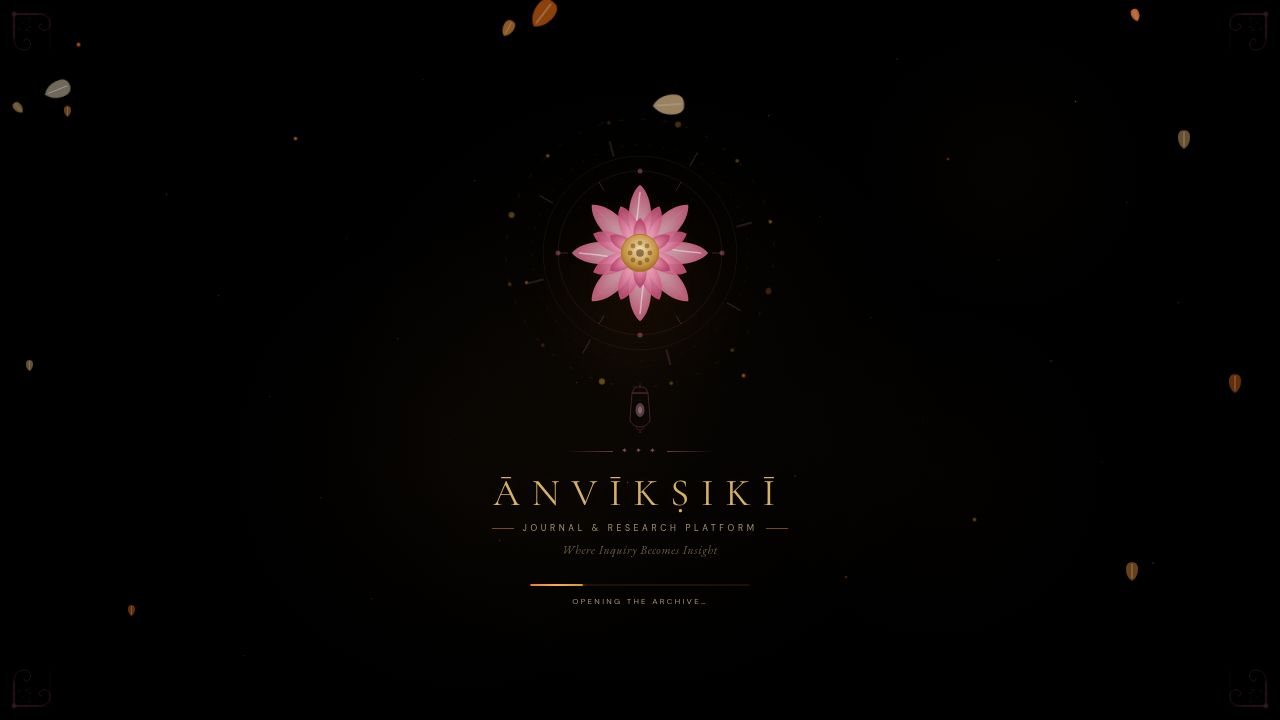
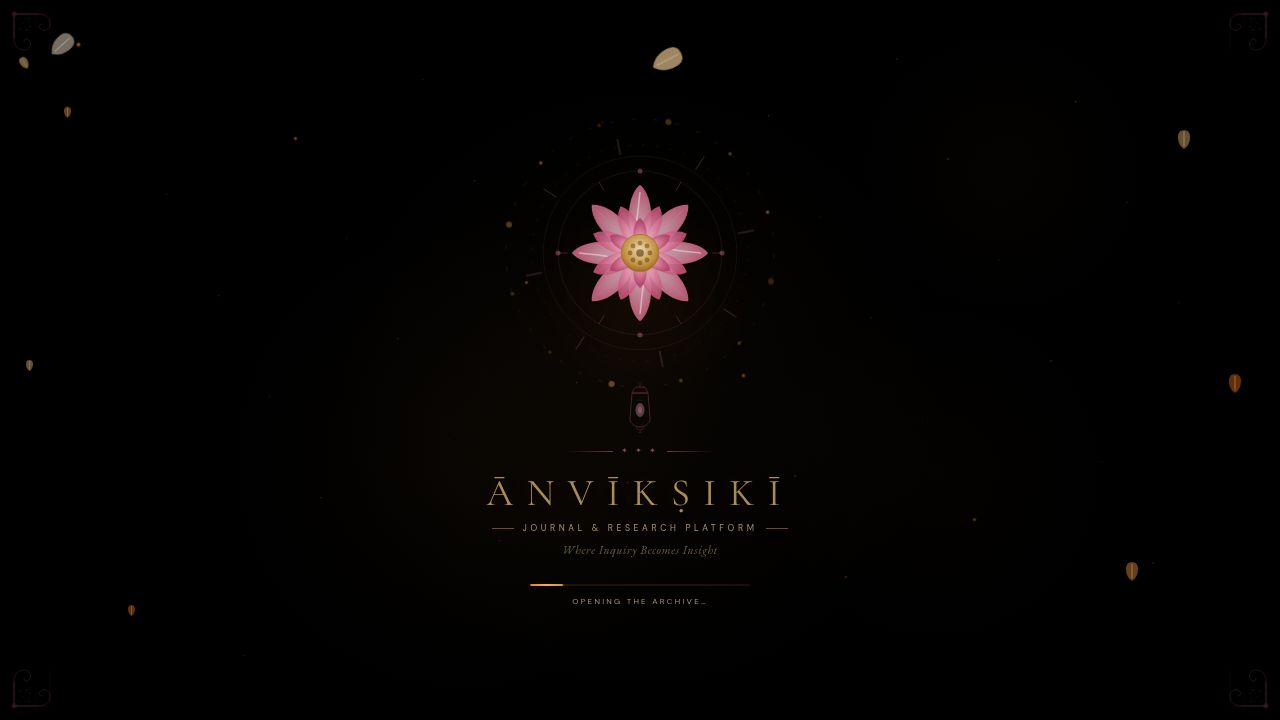
Homepage design cleanup + submit/upload e2e verification
- Removed the colorful rainbow gradient strip from the site header (SacredHeader.tsx, .sacred-rainbow-strip in index.css)
- Removed flower/petal ambient animation (AmbientSakura) and gemstone row (GemstoneRow) from the "Browse by Domain" section on the homepage
- Recolored all 14 HOME_DOMAINS entries in page.tsx to a single monochrome silver (#B8B8C2) instead of per-domain vivid colors, which fixes both the hero chip colors and the domain card colors/icons (both driven by the same array)
- Fixed the "Browse by Domain" grid CSS to be symmetric: changed from repeat(4)/repeat(3)/repeat(2) breakpoints (uneven for 14 items) to repeat(7) desktop / repeat(2) mobile, both of which divide evenly into 14 items
- Cleaned up now-unused .home-v3-ambient-sakura/.home-v3-ambient-petal CSS (the sakuraFall keyframe itself is still used elsewhere in the app, so it was kept)

Tested end-to-end via automated browser test:
- Verified visually (screenshots) that the rainbow header strip is gone and domain chips/cards are silver/monochrome with no flower or gemstone decorations, and the grid renders in a balanced layout
[…]

diff --git a/artifacts/anvikshiki/src/app/page.tsx b/artifacts/anvikshiki/src/app/page.tsx
@@ -4,7 +4,7 @@ import { ArrowRight, BookOpen, Clock3, Compass, Feather, Globe, Layers, Send, Us
 import { AnimalGlyph } from "@/components/manuscript/AnimalGlyph";
 import { OrnamentDivider } from "@/components/manuscript/OrnamentDivider";
 import { FloralBorder } from "@/components/sacred/FloralDecor";
-import { ColorMandala, GemstoneRow, PrismaticBurst, RainbowDivider, YantraPattern } from "@/components/sacred/ColorfulDecor";
+import { PrismaticBurst, YantraPattern } from "@/components/sacred/ColorfulDecor";
 
 const base = import.meta.env.BASE_URL.replace(/\/$/, "");
 const asset = (p: string) => `${base}${p.startsWith("/") ? p : `/${p}`}`;
@@ -29,142 +29,24 @@ function SectionMandala({ size = 52, color = "currentColor" }: { size?: number; 
   );
 }
 
-/* ── VIVID ambient sakura — full spectrum petals ── */
-const AMBIENT_PETALS = Array.from({ length: 22 }, (_, i) => ({
-  left: `${4 + (i * 29 + 11) % 92}%`,
-  size: 7 + (i % 5) * 2.2,
-  color: [
-    "#E11D48","#F97316","#EAB308","#22C55E","#06B6D4","#3B82F6",
-    "#7C3AED","#EC4899","#F43F5E","#D97706","#059669","#0EA5E9",
-  ][i % 12],
-  opacity: 0.26 + (i % 4) * 0.06,
-  delay: `${(i * 0.55) % 9}s`,
-  dur: `${8 + (i % 6) * 1.3}s`,
-  drift: `${((i % 7) - 3) * 34}px`,
-  spin: `${((i % 2) === 0 ? -1 : 1) * (170 + (i % 5) * 45)}deg`,
-}));
+/* ── Silver, monochrome domain styling — no per-domain color ── */
+const DOMAIN_SILVER = "#B8B8C2";
 
-/* ── Flower shape helpers ── */
-function FullFlower({ color, shape }: { color: string; shape: number }) {
-  if (shape === 0) {
-    /* 5-petal round flower */
-    return (
-      <>
-        {[0, 72, 144, 216, 288].map((a) => {
-          const rad = (a * Math.PI) / 180;
-          const cx = 12 + 7 * Math.cos(rad);
-          const cy = 12 + 7 * Math.sin(rad);
-          return <ellipse key={a} cx={cx} cy={cy} rx="5.5" ry="3.5" fill={color} transform={`rotate(${a} ${cx} ${cy})`} opacity=".92" />;
-        })}
-        <circle cx="12" cy="12" r="4" fill="rgba(255,255,200,0.9)" />
-        <circle cx="12" cy="12" r="2" fill={color} opacity=".5" />
-      </>
-    );
-  }
-  if (shape === 1) {
-    /* 6-petal lotus-style flower */
-    return (
-      <>
-        {[0, 60, 120, 180, 240, 300].map((a) => (
-          <path
-            key={a}
-            d="M12,12 C10,8 9,4 12,2 C15,4 14,8 12,12Z"
-            fill={color}
-            transform={`rotate(${a} 12 12)`}
-            opacity=".88"
-          />
-        ))}
-        {/* Inner petals */}
-        {[30, 90, 150, 210, 270, 330].map((a) => (
-          <path
-            key={a}
-            d="M12,12 C11,9.5 10.5,7 12,5.5 C13.5,7 13,9.5 12,12Z"
-            fill={color}
-            transform={`rotate(${a} 12 12)`}
-            opacity=".55"
-          />
-        ))}
-        <circle cx="12" cy="12" r="3" fill="rgba(255,240,200,0.9)" />
-      </>
-    );
-  }
-  if (shape === 2) {
-    /* 8-petal marigold */
-    return (
-      <>
-        {[0, 45, 90, 135, 180, 225, 270, 315].map((a) => {
-          const rad = (a * Math.PI) / 180;
-          const cx = 12 + 6 * Math.cos(rad);
-          const cy = 12 + 6 * Math.sin(rad);
-          return <ellipse key={a} cx={cx} cy={cy} rx="4" ry="2.8" fill={color} transform={`rotate(${a} ${cx} ${cy})`} opacity=".9" />;
-        })}
-        <circle cx="12" cy="12" r="3.5" fill="rgba(255,220,100,0.95)" />
-        <circle cx="12" cy="12" r="1.5" fill={color} opacity=".6" />
-      </>
-    );
-  }
-  /* shape 3 — rose-style cupped flower */
-  return (
-    <>
-      <path d="M12,4 C8,5 5,8 5,12 C5,16.5 8.3,19.5 12,20 C15.7,19.5 19,16.5 19,12 C19,8 16,5 12,4Z" fill={color} opacity=".35" />
-      <path d="M12,6 C9,7 7,9.5 7,12 C7,15.2 9.3,17.5 12,18 C14.7,17.5 17,15.2 17,12 C17,9.5 15,7 12,6Z" fill={color} opacity=".6" />
-      <path d="M12,9 C10.5,9.5 9.5,10.8 9.5,12 C9.5,13.8 10.7,15 12,15 C13.3,15 14.5,13.8 14.5,12 C14.5,10.8 13.5,9.5 12,9Z" fill={color} opacity=".85" />
-      <circle cx="12" cy="12" r="2" fill="rgba(255,240,220,0.9)" />
-    </>
-  );
-}
-
-const FLOWER_COLORS = [
-  "#E8426A",   /* rose red */
-  "#F97316",   /* marigold orange */
-  "#EC4899",   /* lotus pink */
-  "#A855F7",   /* violet */
-  "#FBBF24",   /* saffron yellow */
-  "#34D399",   /* sage green */
-  "#60A5FA",   /* cornflower */
-  "#F472B6",   /* petal pink */
-  "#FB923C",   /* deep marigold */
-  "#C084FC",   /* lavender */
-];
-
-function AmbientSakura() {
-  return (
-    <div className="home-v3-ambient-sakura" aria-hidden="true">
-      {AMBIENT_PETALS.map((p, i) => {
-        const color = FLOWER_COLORS[i % FLOWER_COLORS.length];
-        const flowerShape = i % 4;
-        const sz = p.size * 1.8;
-        return (
-          <svg key={i} width={sz} height={sz} viewBox="0 0 24 24"
-            className="home-v3-ambient-petal"
-            style={{ left: p.left, top: "-5%", opacity: p.opacity,
-              "--dur": p.dur, "--delay": p.delay,
-              "--petal-drift": p.drift, "--petal-spin": p.spin,
-            } as React.CSSProperties}>
-            <FullFlower color={color} shape={flowerShape} />
-          </svg>
-        );
-      })}
-    </div>
-  );
-}
-
-/* ── VIVID domain colors ── */
 const HOME_DOMAINS = [
-  { label: "Philosophy",             domain: "philosophy",             href: "/domains/philosophy",             color: "#7C3AED", emoji: "🔮", desc: "Reality, reasoning, self, knowledge, and truth." },
-  { label: "History",                domain: "history",                href: "/domains/history",                color: "#D97706", emoji: "📜", desc: "Civilizations, memory, events, eras, and inheritance." },
-  { label: "Psychology",             domain: "psychology",             href: "/domains/psychology",             color: "#E11D48", emoji: "🧠", desc: "Mind, behavior, consciousness, and inner landscapes." },
-  { label: "Sociology",              domain: "sociology",              href: "/domains/sociology",              color: "#059669", emoji: "🌿", desc: "Communities, institutions, cultures, and shared patterns." },
-  { label: "Science",                domain: "science",                href: "/domains/science",                color: "#0EA5E9", emoji: "🔭", desc: "Observation, logic, nature, systems, and discovery." },
-  { label: "Geopolitics",            domain: "geopolitics",            href: "/domains/geopolitics",            color: "#B91C1C", emoji: "🌐", desc: "Power, geography, statecraft, strategy, and place." },
-  { label: "Papers",                 domain: "papers",                 href: "/papers",                         color: "#B45309", emoji: "📋", desc: "Research manuscripts, working papers, and scholarship." },
-  { label: "Archive",                domain: "archive",                href: "/archive",                        color: "#71717A", emoji: "🗂️", desc: "Texts, records, timelines, sources, and living memory." },
-  { label: "Civilizational Thought", domain: "civilizational-thought", href: "/domains/civilizational-thought", color: "#16A34A", emoji: "🏛️", desc: "Long-arc inquiry into culture, tradition, and society." },
-  { label: "Aesthetics",             domain: "aesthetics",             href: "/domains/aesthetics",             color: "#9D174D", emoji: "🎨", desc: "Art, beauty, literature, music, symbol, and form." },
-  { label: "Sanskrit Studies",       domain: "sanskrit-studies",       href: "/domains/sanskrit-studies",       color: "#CA8A04", emoji: "🪔", desc: "Language, shastra, grammar, and textual traditions." },
-  { label: "Political Theory",       domain: "political-theory",       href: "/domains/political-theory",       color: "#DC2626", emoji: "⚖️", desc: "State, order, sovereignty, justice, and power." },
-  { label: "Translations",           domain: "translations",           href: "/domains/translations",           color: "#4338CA", emoji: "📖", desc: "Texts moving between languages, worlds, and eras." },
-  { label: "Multimedia",             domain: "multimedia",             href: "/domains/aesthetics",             color: "#1D4ED8", emoji: "🎬", desc: "Visual stories, lectures, audio, and interactive work." },
+  { label: "Philosophy",             domain: "philosophy",             href: "/domains/philosophy",             color: DOMAIN_SILVER, emoji: "🔮", desc: "Reality, reasoning, self, knowledge, and truth." },
+  { label: "History",                domain: "history",                href: "/domains/history",                color: DOMAIN_SILVER, emoji: "📜", desc: "Civilizations, memory, events, eras, and inheritance." },
+  { label: "Psychology",             domain: "psychology",             href: "/domains/psychology",             color: DOMAIN_SILVER, emoji: "🧠", desc: "Mind, behavior, consciousness, and inner landscapes." },
+  { label: "Sociology",              domain: "sociology",              href: "/domains/sociology",              color: DOMAIN_SILVER, emoji: "🌿", desc: "Communities, institutions, cultures, and shared patterns." },
+  { label: "Science",                domain: "science",                href: "/domains/science",                color: DOMAIN_SILVER, emoji: "🔭", desc: "Observation, logic, nature, systems, and discovery." },
+  { label: "Geopolitics",            domain: "geopolitics",            href: "/domains/geopolitics",            color: DOMAIN_SILVER, emoji: "🌐", desc: "Power, geography, statecraft, strategy, and place." },
+  { label: "Papers",                 domain: "papers",                 href: "/papers",                         color: DOMAIN_SILVER, emoji: "📋", desc: "Research manuscripts, working papers, and scholarship." },
+  { label: "Archive",                domain: "archive",                href: "/archive",                        color: DOMAIN_SILVER, emoji: "🗂️", desc: "Texts, records, timelines, sources, and living memory." },
+  { label: "Civilizational Thought", domain: "civilizational-thought", href: "/domains/civilizational-thought", color: DOMAIN_SILVER, emoji: "🏛️", desc: "Long-arc inquiry into culture, tradition, and society." },
+  { label: "Aesthetics",             domain: "aesthetics",             href: "/domains/aesthetics",             color: DOMAIN_SILVER, emoji: "🎨", desc: "Art, beauty, literature, music, symbol, and form." },
+  { label: "Sanskrit Studies",       domain: "sanskrit-studies",       href: "/domains/sanskrit-studies",       color: DOMAIN_SILVER, emoji: "🪔", desc: "Language, shastra, grammar, and textual traditions." },
+  { label: "Political Theory",       domain: "political-theory",       href: "/domains/political-theory",       color: DOMAIN_SILVER, emoji: "⚖️", desc: "State, order, sovereignty, justice, and power." },
+  { label: "Translations",           domain: "translations",           href: "/domains/translations",           color: DOMAIN_SILVER, emoji: "📖", desc: "Texts moving between languages, worlds, and eras." },
+  { label: "Multimedia",             domain: "multimedia",             href: "/domains/aesthetics",             color: DOMAIN_SILVER, emoji: "🎬", desc: "Visual stories, lectures, audio, and interactive work." },
 ];
 
 /* ── Stats ── */
@@ -319,7 +201,7 @@ export default function HomePage() {
               </Link>
             </div>
 
-            {/* Vivid colored domain chips */}
+            {/* Domain chips — silver, monochrome */}
             <div className="home-v3-chips">
               {HOME_DOMAINS.map(d => (
                 <Link key={d.label} href={d.href} className="home-v3-chip"
@@ -379,8 +261,6 @@ export default function HomePage() {
 
       {/* ─── BROWSE BY DOMAIN ─── */}
       <section className="home-v3-section home-v3-domains-section" style={{ position: "relative", overflow: "hidden" }}>
-        <AmbientSakura />
-
         {/* Background Yantra watermark */}
         <div className="home-domains-yantra" aria-hidden="true">
           <YantraPattern size={400} style={{ opacity: 0.04 }} />
@@ -391,8 +271,6 @@ export default function HomePage() {
             <SectionMandala size={48} />
             <h2 className="home-v3-section-title">Browse by Domain</h2>
           </div>
-
-          <GemstoneRow count={7} className="mb-2 mt-1 opacity-70" />
 
           <p className="home-v3-section-sub">
             Fourteen fields of inquiry — from the sweep of civilizations to the intimacy of the aesthetic moment,

diff --git a/artifacts/anvikshiki/src/index.css b/artifacts/anvikshiki/src/index.css
@@ -3492,21 +3492,6 @@ body:has(.sacred-drawer) {
   --sakura-6: #f97316;
 }
 
-/* ── Ambient page-level sakura petals ────────────────────────────────── */
-.home-v3-ambient-sakura {
-  position: absolute;
-  inset: 0;
-  pointer-events: none;
-  overflow: hidden;
-  z-index: 0;
-}
-
-.home-v3-ambient-petal {
-  position: absolute;
-  will-change: transform, opacity;
-  animation: sakuraFall var(--dur, 9s) var(--delay, 0s) linear infinite;
-}
-
 /* ── Section mandala ornament ────────────────────────────────────────── */
 .home-v3-section-mandala {
   display: block;
@@ -3548,16 +3533,12 @@ body:has(.sacred-drawer) {
   pointer-events: none;
 }
 
-/* ── Domain grid — 14-domain layout ──────────────────────────────────── */
+/* ── Domain grid — 14-domain layout (7×2 so every row is fully symmetric) ── */
 .home-v3-domains-expanded {
-  grid-template-columns: repeat(4, 1fr);
+  grid-template-columns: repeat(7, 1fr);
 }
 
-@media (max-width: 960px) {
-  .home-v3-domains-expanded { grid-template-columns: repeat(3, 1fr); }
-}
-
-@media (max-width: 640px) {
+@media (max-width: 1200px) {
   .home-v3-domains-expanded { grid-template-columns: repeat(2, 1fr); }
 }
 
@@ -3878,24 +3859,6 @@ input[type="search"]::-webkit-search-decoration {
 /* ════════════════════════════════════════════════════════════════════════
    COLORFUL DECOR SYSTEM — vivid spectrum aesthetics
    ════════════════════════════════════════════════════════════════════════ */
-
-/* ── Sacred rainbow strip in header ─────────────────────────────────── */
-.sacred-rainbow-strip {
-  height: 3px;
-  width: 100%;
-  background: linear-gradient(90deg,
-    #E11D48 0%, #F97316 14%, #EAB308 28%,
-    #22C55E 42%, #06B6D4 56%, #3B82F6 70%,
-    #7C3AED 84%, #EC4899 100%
-  );
-  background-size: 200% 100%;
-  animation: rainbowShift 8s linear infinite;
-  opacity: 0.85;
-}
-@keyframes rainbowShift {
-  from { background-position: 0% 0%; }
-  to   { background-position: 200% 0%; }
-}
 
 /* ── Stats Bar ───────────────────────────────────────────────────────── */
 .home-stats-bar {

diff --git a/artifacts/anvikshiki/src/components/sacred/SacredHeader.tsx b/artifacts/anvikshiki/src/components/sacred/SacredHeader.tsx
@@ -40,9 +40,6 @@ export function SacredHeader() {
           Skip to main content
         </a>
 
-        {/* ── Rainbow spectrum accent strip ── */}
-        <div className="sacred-rainbow-strip" aria-hidden="true" />
-
         <div className="container-anv">
           <div className="sacred-header-row">
 